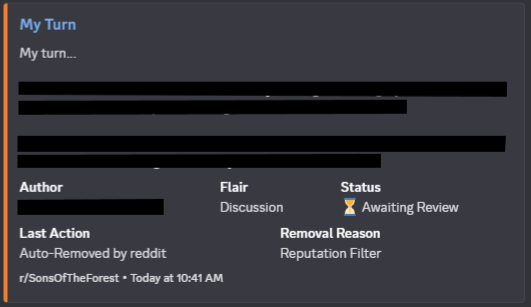
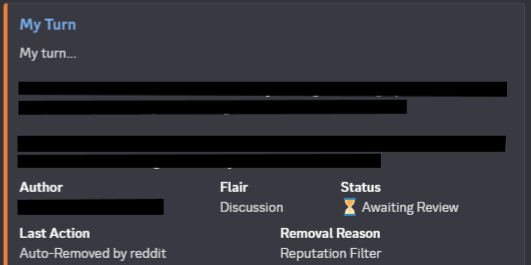
Updated Image for cropping

diff --git a/README.md b/README.md
@@ -127,6 +127,8 @@ Making at easy to keep track of anything related to your subreddit directly from
 ## Changelog
 - v0.0.16
   - Added an additional delay during old message removal to prevent rate limiting on discords end.
+  - Added support for crossposts, now displaying if a post is a crosspost and from which subreddit, as well as linking to the original post.
+	- It will now also fetch the post body from the original post.
   - Removed the "No Body" text in cases without a message body attached.
   - Hotfix for reports not sending notifications when reported by AutoModerator
   - Fixed edge case in which a removed comment would be marked as Administrator removal incorrectly.
